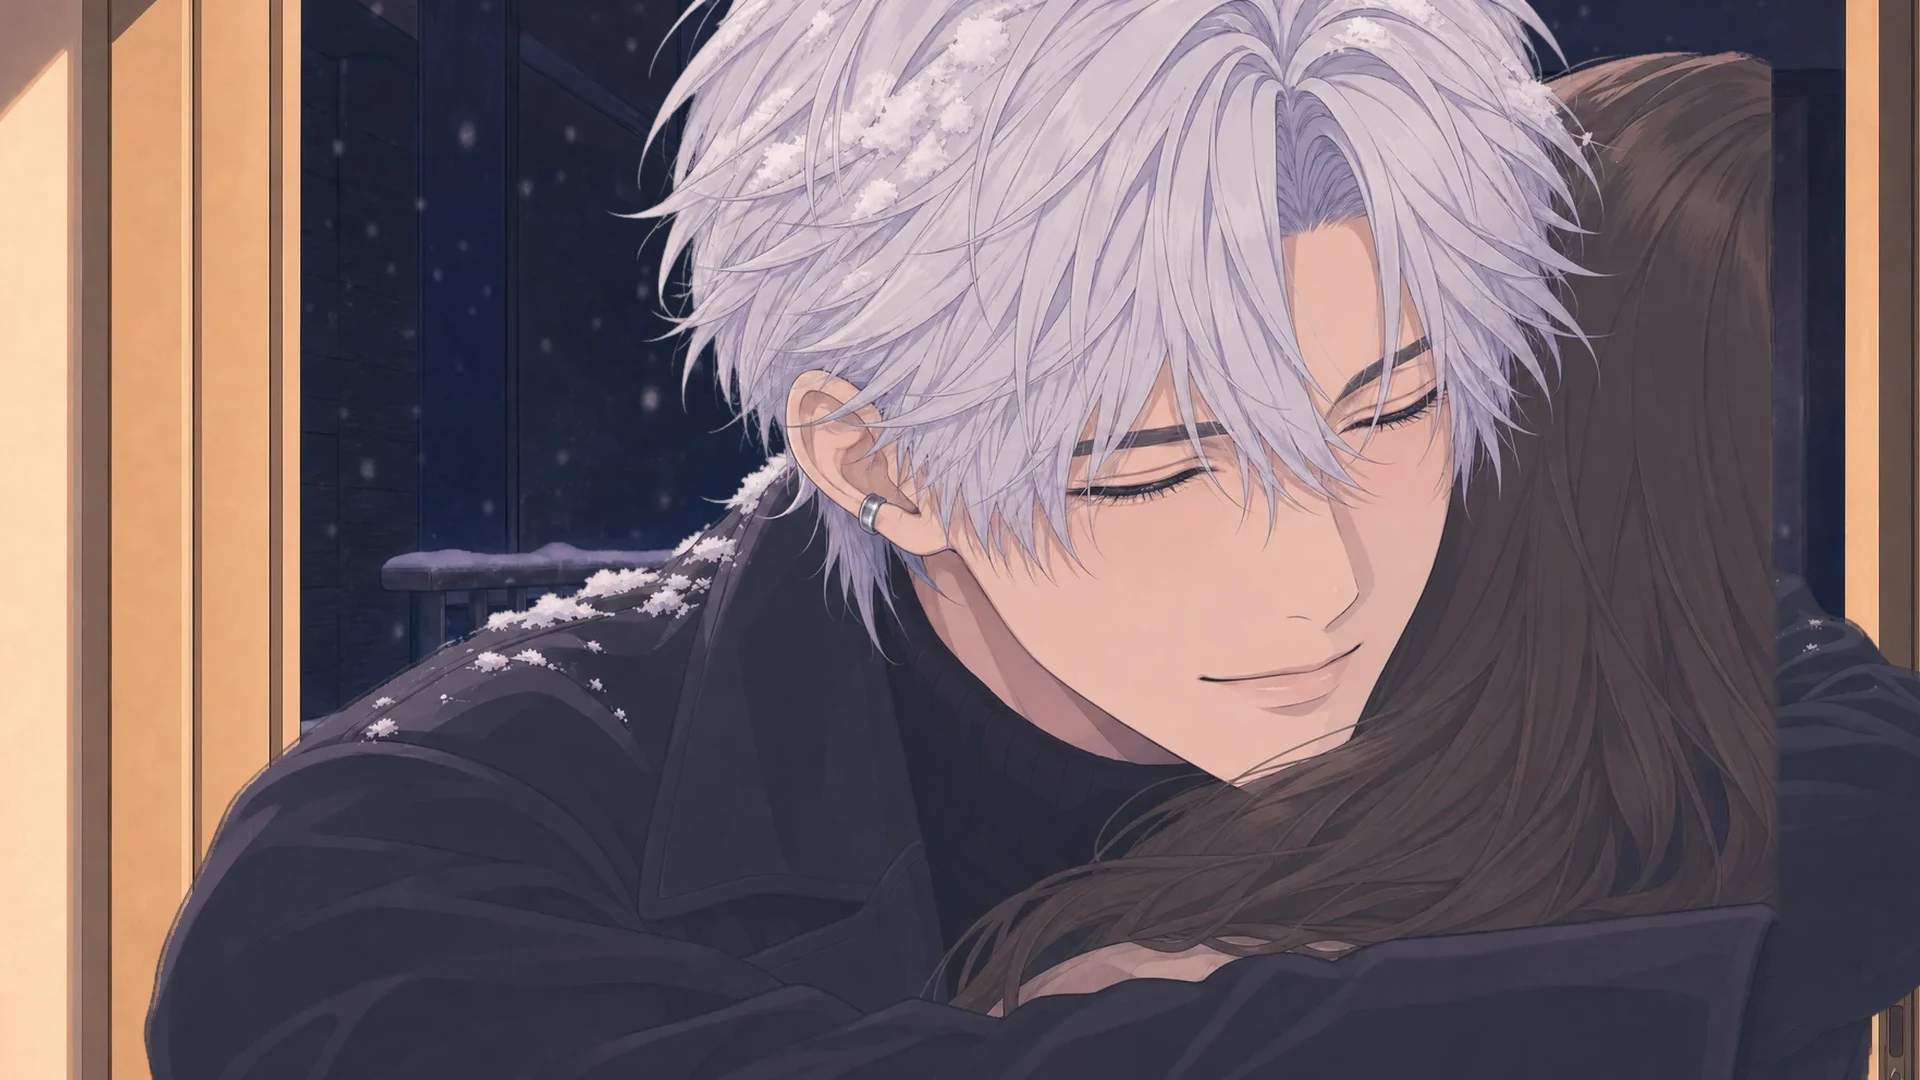
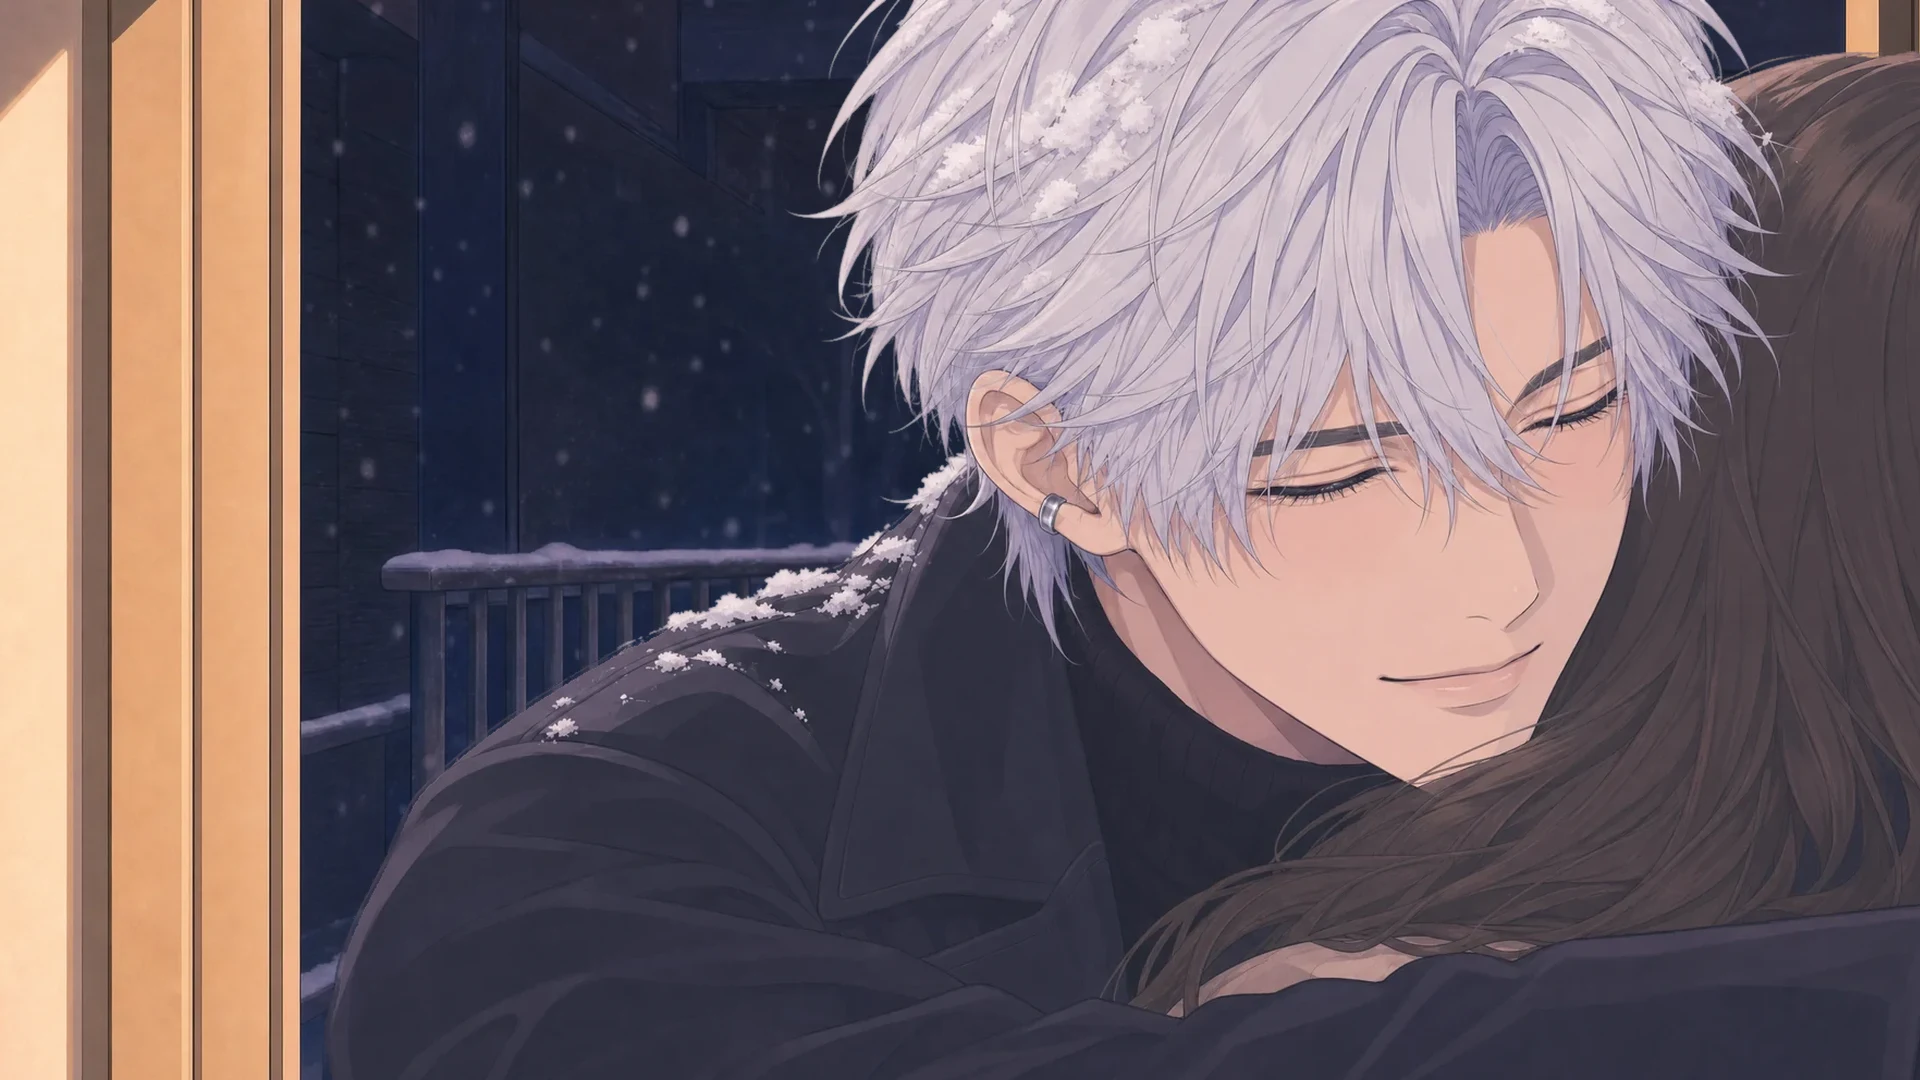
Demo12 Ren hug: the girl's hair ended on a vertical ruler line at 92 % of the frame (the matting pass had only softened it, so the detector lost it) -> figure x .5541 -> .648, the cut now lies outside the frame; flat recomposed, layers.js ?v. check_art: straight-cut test runs on binarised alpha (a f

diff --git a/demos/for-women/Demo12_LateCall/index.html b/demos/for-women/Demo12_LateCall/index.html
@@ -99,7 +99,7 @@
   <script src="lines.js?v=07d14089"></script>
   <script src="audio.js?v=1"></script>
   <!-- story / sound / thermal code (unchanged since the first version); shared/layers.js draws the layered art in place of its stills -->
-  <script src="media/layers.js?v=222cf774"></script>
+  <script src="media/layers.js?v=20c347d0"></script>
   <script>MOHEAT_LAYERS.skipVideo = 'media/video/';</script>
   <script src="../../shared/layers.js?v=f71de857"></script>
   <script src="../../shared/shell.js?v=1"></script>

diff --git a/demos/for-women/Demo12_LateCall/media/layers.js b/demos/for-women/Demo12_LateCall/media/layers.js
@@ -259,7 +259,7 @@ window.MOHEAT_LAYERS = {
     "src": "art/char_hug.webp?v=c48199be",
     "w": 1700,
     "h": 1012,
-    "x": 0.5541,
+    "x": 0.648,
     "y": 1.02,
     "height": 1.02,
     "box": [

diff --git a/tools/art/check_art.py b/tools/art/check_art.py
@@ -126,8 +126,9 @@ def check(D, verbose=False):
         if src not in done_fringe:   # flat head / straight cut INSIDE the picture (hair or shoulder cut along a ruler line: 平头)
             try:
                 sys.path.insert(0, os.path.dirname(os.path.abspath(__file__))); import check_cut_body
-                for side, f in check_cut_body.straight_cuts(a[10:-10, 10:-10, 3]):   # border rows = the picture edge (check_cut_body)
-                    if all(cut_outside(a[..., 3], side, w['char']) for w in views.values() if (w.get('char') or {}).get('src', '').split('?')[0] == src):
+                hard = np.where(a[..., 3] > 128, 255, 0)   # binarised: a softened / feathered ruler edge must not slip past (Demo12 hug after matting)
+                for side, f in check_cut_body.straight_cuts(hard[10:-10, 10:-10]):   # border rows = the picture edge (check_cut_body)
+                    if all(cut_outside(hard, side, w['char']) for w in views.values() if (w.get('char') or {}).get('src', '').split('?')[0] == src):
                         continue   # the ruler line lies ≥ 1.5 % outside the frame in every view that shows this layer (Demo12 call, moved right)
                     out.append(('FAIL' if side == 'top' else 'WARN', 'edge-margin', f'{src}: straight {side} cut {f:.0%} long inside the picture (flat head / ruler-cut body) → tools/art/complete_cutout.py or extend_pose.py'))
             except Exception: pass
